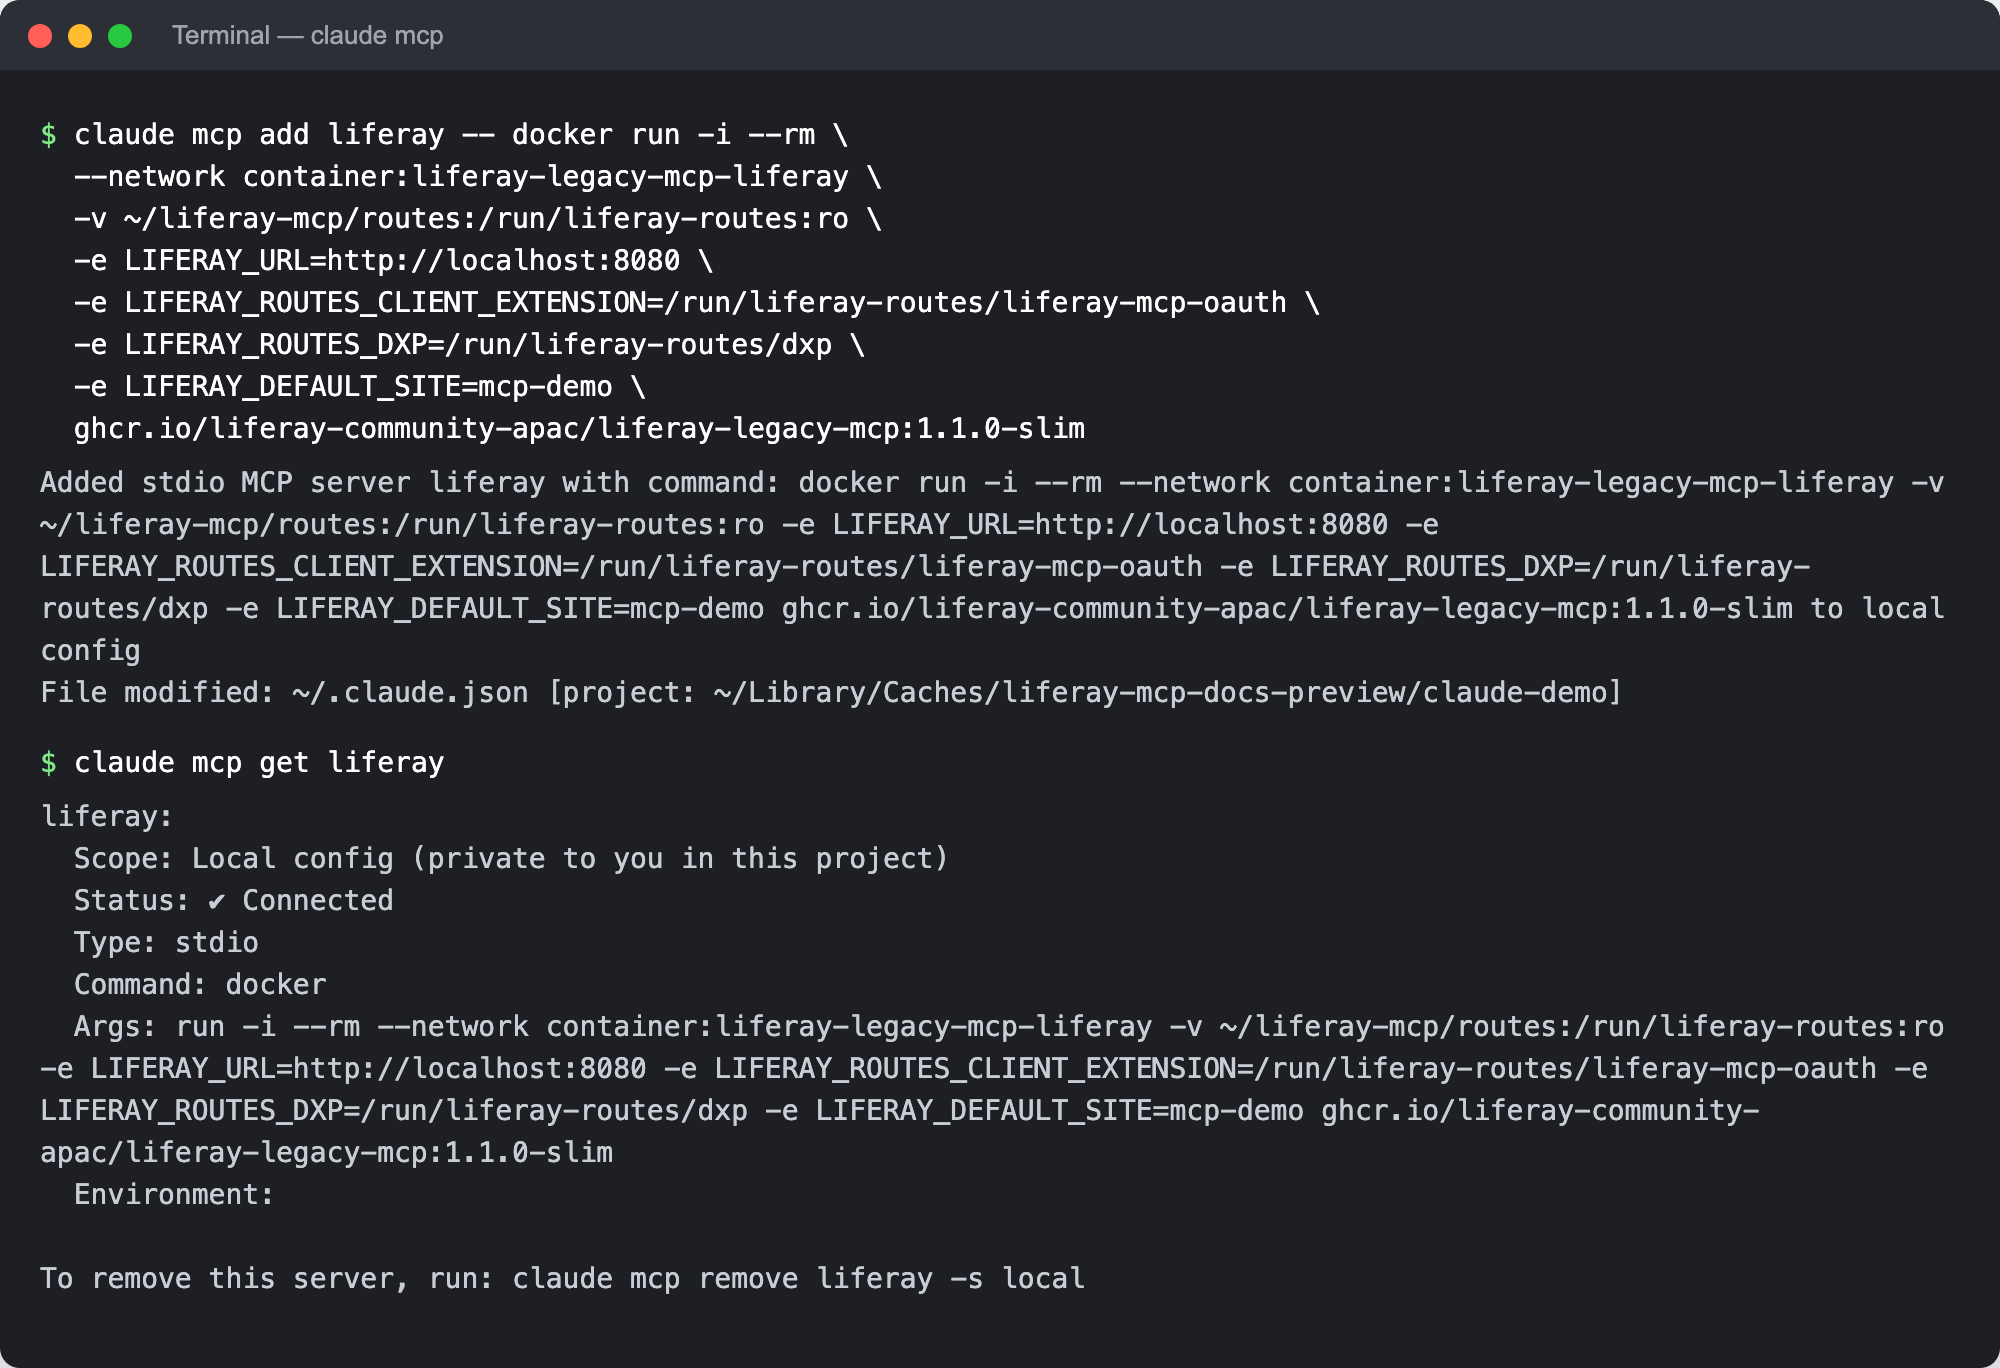
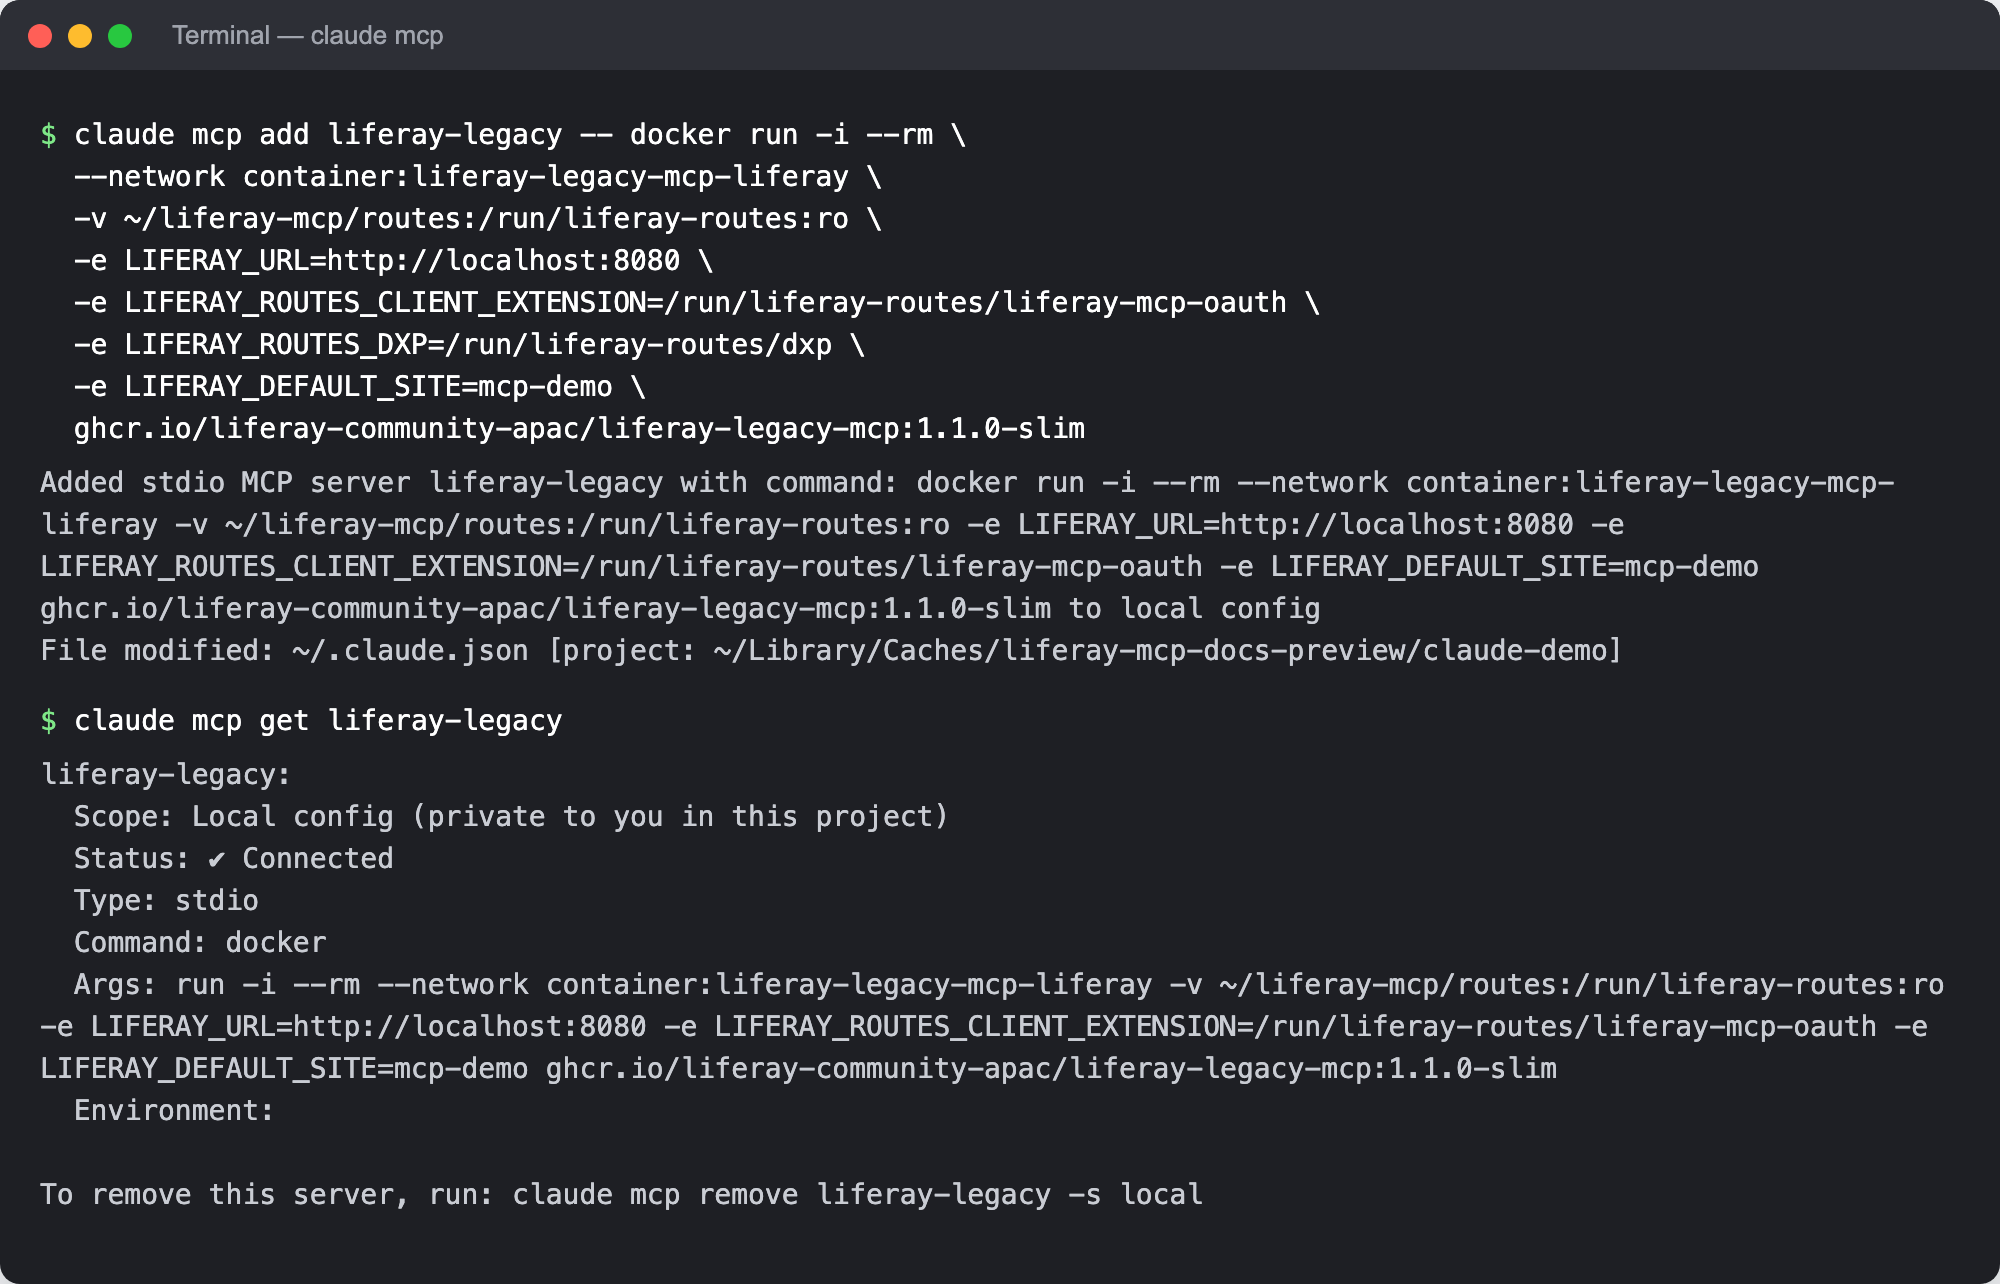
Liferay Legacy MCP guide: name the server liferay-legacy
A generic name like liferay clashes with other Liferay connections: a
server of the same name in another scope replaces it, and two sets of
mcp__liferay__ tools can't be told apart. The examples use
liferay-legacy, with a tip to name one server per Liferay. The Claude
Code screenshots are retaken with the new name.

diff --git a/docs/liferay-legacy-mcp/installing/claude-code.md b/docs/liferay-legacy-mcp/installing/claude-code.md
@@ -20,7 +20,7 @@ You need Docker, Claude Code, and a copy of the server's credentials on your com
 Run this once, with your Liferay's address, your routes folder, and the site to work in by default:
 
 ```bash
-claude mcp add liferay -- docker run -i --rm \
+claude mcp add liferay-legacy -- docker run -i --rm \
   -v ~/liferay-mcp/routes:/run/liferay-routes:ro \
   -v liferay-mcp-data:/data \
   -e LIFERAY_URL=https://liferay.example.com \
@@ -31,17 +31,20 @@ claude mcp add liferay -- docker run -i --rm \
 
 Everything after `--` is the command Claude Code runs to start the server. `~/liferay-mcp/routes` is the folder that holds the `liferay-mcp-oauth` folder.
 
+{: .tip }
+`liferay-legacy` is the server's name in Claude Code, and its tools are named after it, such as `mcp__liferay-legacy__search_content`. Keep it distinct from other Liferay connections: a server of the same name in another scope replaces this one. If you connect more than one Liferay, add one server for each, named after it, such as `liferay-legacy-prod` and `liferay-legacy-test`, so the assistant can tell which one it's working on.
+
 By default, the server is added for the current folder only, and only for you. Add `-s user` after `add` to use it in every folder, or `-s project` to share it with your team in the folder's `.mcp.json`; to use it in the Claude desktop app's Code tab, see [With the Claude Desktop App](claude-desktop.html); teammates then approve it the first time they start Claude Code there, and need their own routes folder.
 
 ## Step 2: Check That It Connects
 
 ```bash
-claude mcp get liferay
+claude mcp get liferay-legacy
 ```
 
 It shows **Status: ✔ Connected** once Claude Code could start the server and list its tools. In a Claude Code session, `/mcp` shows the same.
 
-![Adding the server with claude mcp add, then claude mcp get liferay showing Status: Connected.](../assets/images/claude-code-mcp-add.png){: .screenshot }
+![Adding the server with claude mcp add, then claude mcp get liferay-legacy showing Status: Connected.](../assets/images/claude-code-mcp-add.png){: .screenshot }
 
 {: .note }
 These screenshots were taken against a test Liferay in a local Docker container named `liferay-legacy-mcp-liferay`, so the server joins that container's network (`--network container:…`) and reaches Liferay at `http://localhost:8080`. Against your own Liferay, use its address, as in Step 1.
@@ -63,7 +66,7 @@ These were asked with `claude -p`, which runs one question and prints the answer
 Writes are off until you add `-e MCP_WRITE_MODE=confirm` before the image name. Remove the server and add it again with that line:
 
 ```bash
-claude mcp remove liferay
+claude mcp remove liferay-legacy
 ```
 
 Each write is then shown as a preview in Claude Code, and runs only once you confirm it. See [Writes and Previews](../using/writes.html).

diff --git a/docs/liferay-legacy-mcp/installing/claude-desktop.md b/docs/liferay-legacy-mcp/installing/claude-desktop.md
@@ -20,7 +20,7 @@ You need Docker, the Claude desktop app, the [Claude Code command line tool](htt
 In a terminal, add the server with `-s user`, so it's available in every folder you open in the Code tab:
 
 ```bash
-claude mcp add -s user liferay -- docker run -i --rm \
+claude mcp add -s user liferay-legacy -- docker run -i --rm \
   -v ~/liferay-mcp/routes:/run/liferay-routes:ro \
   -v liferay-mcp-data:/data \
   -e LIFERAY_URL=https://liferay.example.com \
@@ -29,14 +29,14 @@ claude mcp add -s user liferay -- docker run -i --rm \
   ghcr.io/liferay-community-apac/liferay-legacy-mcp:1.1.0-slim
 ```
 
-To add it for one folder only, run the command without `-s user` in that folder.
+To add it for one folder only, run the command without `-s user` in that folder. To connect more than one Liferay, add one server for each, named after it, such as `liferay-legacy-prod` and `liferay-legacy-test`.
 
 {: .note }
 The app's **+** → **Connectors** menu adds Claude's own connectors, not local servers like this one. The chat's *Developer* settings (`claude_desktop_config.json`) apply to the Chat tab, not to Code sessions.
 
 ## Step 2: Start a Code Session
 
-In the desktop app, open the **Code** tab, and start a session in a folder. Type `/mcp` to see the server: it shows **liferay** as connected once the app could start it.
+In the desktop app, open the **Code** tab, and start a session in a folder. Type `/mcp` to see the server: it shows **liferay-legacy** as connected once the app could start it.
 
 ## Step 3: Ask
 

diff --git a/docs/liferay-legacy-mcp/installing/stdio.md b/docs/liferay-legacy-mcp/installing/stdio.md
@@ -22,7 +22,7 @@ Most desktop AI assistants and IDEs read an `mcpServers` setting in this format.
 ```json
 {
   "mcpServers": {
-    "liferay": {
+    "liferay-legacy": {
       "command": "docker",
       "args": [
         "run", "-i", "--rm",
@@ -40,6 +40,7 @@ Most desktop AI assistants and IDEs read an `mcpServers` setting in this format.
 
 - `/path/to/routes` is the folder that holds the `liferay-mcp-oauth` folder.
 - For the page inspection tools, use the `1.1.0-full` image.
+- `liferay-legacy` is the server's name in the assistant. To connect more than one Liferay, add one server for each, named after it, such as `liferay-legacy-prod` and `liferay-legacy-test`.
 - No password goes in this setting: the server reads the OAuth credentials from the routes folder when it starts.
 
 ## Step 2: Restart the AI Assistant

diff --git a/docs/liferay-legacy-mcp/installing/docker.md b/docs/liferay-legacy-mcp/installing/docker.md
@@ -71,7 +71,7 @@ The server's container joins Liferay's network (`--network container:liferay`), 
 - **For a person on the Docker host,** with Claude Code: the same container, started by Claude Code, as in [With Claude Code](claude-code.html):
 
     ```bash
-    claude mcp add liferay -- docker run -i --rm --network container:liferay \
+    claude mcp add liferay-legacy -- docker run -i --rm --network container:liferay \
       -v liferay-routes:/opt/liferay/routes:ro \
       -e LIFERAY_URL=http://localhost:8080 \
       -e LIFERAY_ROUTES_CLIENT_EXTENSION=/opt/liferay/routes/default/liferay-mcp-oauth \
